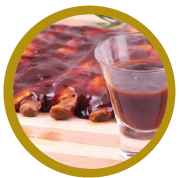
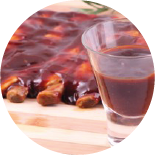
Fix imagenes en circulo index

diff --git a/foodtechDuranjo/foodtechDuranjo/templates/homepage/index.html b/foodtechDuranjo/foodtechDuranjo/templates/homepage/index.html
@@ -38,12 +38,12 @@ FoodTech Inicio
 		<div class="wrapper">
 			<div class="textoProductos">Con calidad FOODTECH</div>
 			<ul class="productos">
-				<li><img src="{% static 'img/cir1.png' %}" alt="Carne de res"><span>il lorem ipsum.</span></li>
-				<li><img src="{% static 'img/cir2.png' %}" alt="Jamón"><span>il lorem ipsum.</span></li>
-				<li><img src="{% static 'img/cir3.png' %}" alt="Pollo"><span>il lorem ipsum.</span></li>
-				<li><img src="{% static 'img/cir4.png' %}" alt="Pastrini"><span>il lorem ipsum.</span></li>
-				<li><img src="{% static 'img/cir5.png' %}" alt="Salsa"><span>il lorem ipsum.</span></li>
-				<li><img src="{% static 'img/cir6.png' %}" alt="Delicateses"><span>il lorem ipsum.</span></li>
+				<a href="#"><li><img src="{% static 'img/cir1.png' %}" alt="Carne de res"><span>Carnes Maduradas</span></li></a>
+				<a href="#"><li><img src="{% static 'img/cir2.png' %}" alt="Jamón"><span>Costillitas BBQ</span></li></a>
+				<a href="#"><li><img src="{% static 'img/cir3.png' %}" alt="Pollo"><span>Jamones</span></li></a>
+				<a href="#"><li><img src="{% static 'img/cir4.png' %}" alt="Pastrini"><span>Medallones</span></li></a>
+				<a href="#"><li><img src="{% static 'img/cir5.png' %}" alt="Salsa"><span>Delicateses</span></li></a>
+				<a href="#"><li><img src="{% static 'img/cir6.png' %}" alt="Delicateses"><span>Salsa BBQ</span></li></a>
 			</ul>
 		</div>
 	</section>

diff --git a/foodtechDuranjo/foodtechDuranjo/static/css/homepage/index.css b/foodtechDuranjo/foodtechDuranjo/static/css/homepage/index.css
@@ -29,7 +29,7 @@ h2{
 	padding-top: 20px;
 }
 .productos{
-	margin: 0;
+	margin: 31px 0 31px 0;
 	padding: 0 0 10px 0;
 }
 .productos li{
